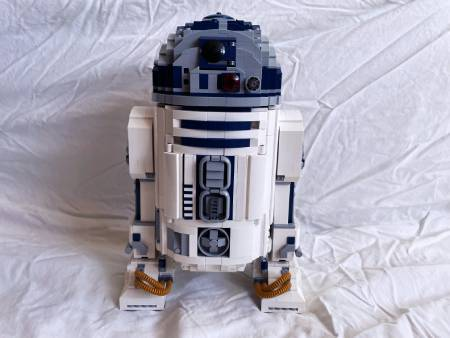
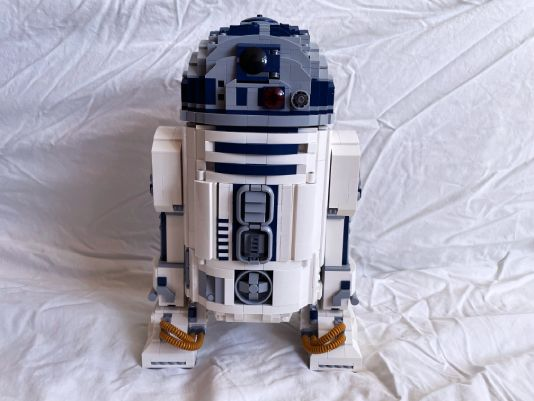
byter bilder product5

diff --git a/product5.html b/product5.html
@@ -69,26 +69,26 @@
         <div class="productImages gridSectionOne">
             <a href="images/product5/product5_lightbox.jpg" target="_blank" data-lightbox="product1-images">
                 <picture>
-                    <source srcset="images/product5/product5_main.webp" width="450" height="338" type="image/webp">
-                    <img src="images/product5/product5_main.jpg" alt="Vita droiden R2-D2 från Star wars" width="450"
-                        height="338" fetchpriority="high">
+                    <source srcset="images/product5/product5_main.webp" width="534" height="401" type="image/webp">
+                    <img src="images/product5/product5_main.jpg" alt="Vita droiden R2-D2 från Star wars" width="534"
+                        height="401" fetchpriority="high">
                 </picture>
             </a>
             <div class="thumbnailsProduct">
                 <a href="images/product5/product5_2lightbox.jpg" target="_blank" data-lightbox="product1-images">
                     <picture>
-                        <source srcset="images/product5/product5_2mainsmall.webp" width="150" height="113"
+                        <source srcset="images/product5/product5_2mainsmall.webp" width="225" height="169"
                             type="image/webp">
                         <img src="images/product5/product5_2mainsmall.jpg" alt="Vita droiden R2-D2 från Star wars"
-                            width="150" height="113">
+                            width="225" height="169">
                     </picture>
                 </a>
                 <a href="images/product5/product5_3lightbox.jpg" target="_blank" data-lightbox="product1-images">
                     <picture>
-                        <source srcset="images/product5/product5_3mainsmall.webp" width="150" height="113"
+                        <source srcset="images/product5/product5_3mainsmall.webp" width="225" height="169"
                             type="image/webp">
                         <img src="images/product5/product5_3mainsmall.jpg" alt="Vita droiden R2-D2 från Star wars"
-                            width="150" height="113">
+                            width="225" height="169">
                     </picture>
                 </a>
             </div>

diff --git a/products.html b/products.html
@@ -115,10 +115,10 @@
                 <a href="product5.html">
                     <div>
                         <picture>
-                            <source srcset="images/product5/product5_products.webp" width="400" height="300"
+                            <source srcset="images/product5/product5_main.webp" width="534" height="401"
                                 type="image/webp">
-                            <img src="images/product5/product5_products.webp" alt="gul och blå legokruka med grön växt"
-                                width="400" height="300">
+                            <img src="images/product5/product5_main.jpg" alt="Vita droiden R2-D2 från Star wars"
+                                width="534" height="401">
                         </picture>
                         <h2>R2-D2</h2>
                         <h3>Artikelnummer: 001-005</h3>
